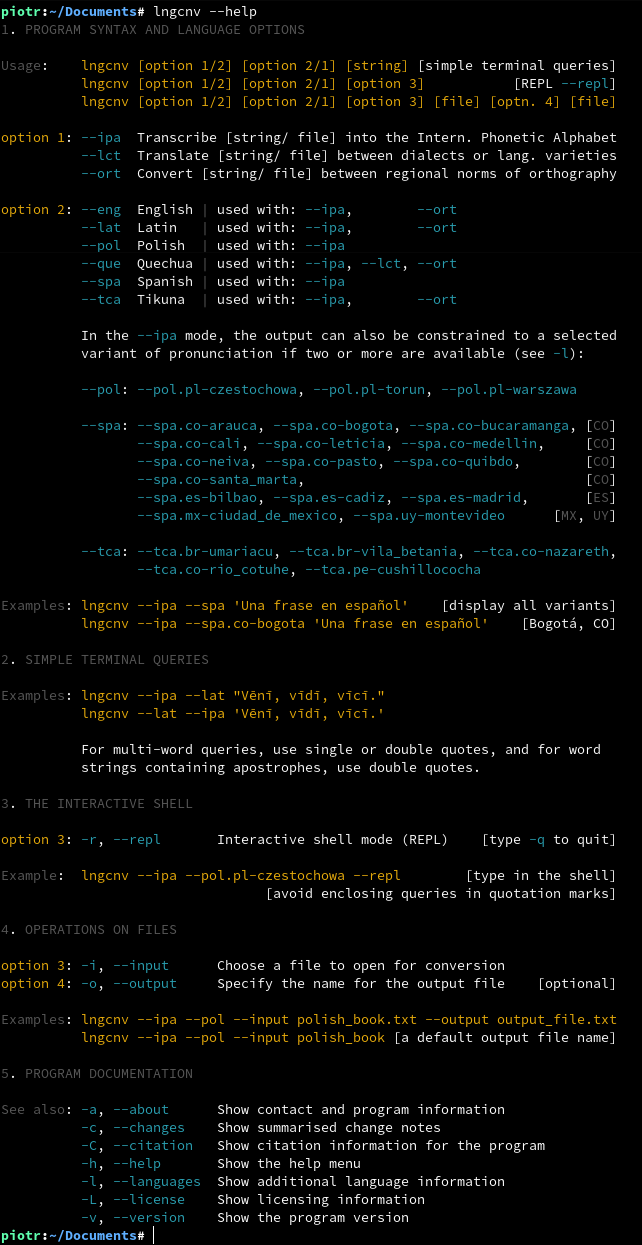
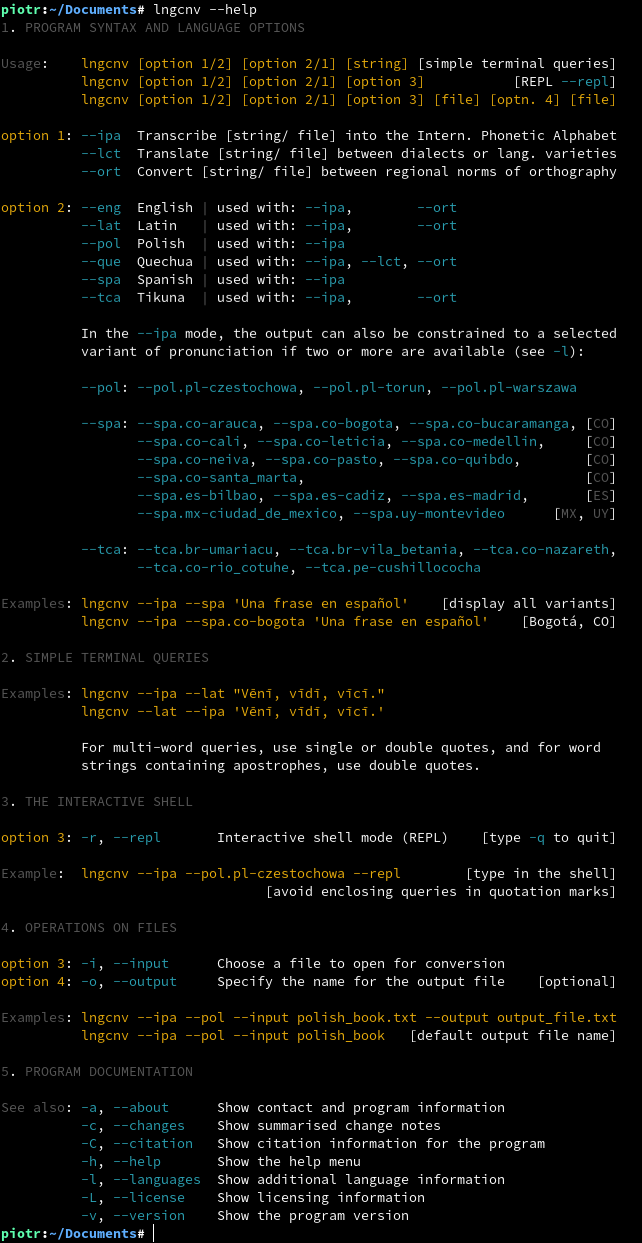
Add files via upload

diff --git a/src/menu.rs b/src/menu.rs
@@ -1,4 +1,4 @@
-// LNGCNV VERSION 1.8.5 / MIT LICENSE © 2022–2023 PIOTR BAJDEK
+// LNGCNV VERSION 1.8.6 / MIT LICENSE © 2022–2023 PIOTR BAJDEK
 
 // MODULE MENU
 
@@ -22,8 +22,8 @@ pub fn documentation(reset: &str, blue_underlined: &str, cyan: &str, yellow: &st
 
         if argument == "-a" || argument == "--about" {
             println!("{}", grey.to_owned() + "Program" + reset + ":  " + yellow + "lngcnv" + reset);
-            println!("{}", grey.to_owned() + "Version" + reset + ":  1.8.5");
-            println!("{}", grey.to_owned() + "Date" + reset + ":     February 16, 2023");
+            println!("{}", grey.to_owned() + "Version" + reset + ":  1.8.6");
+            println!("{}", grey.to_owned() + "Date" + reset + ":     March 21, 2023");
             println!("{}", grey.to_owned() + "Author" + reset + ":   Piotr Bajdek");
             println!("{}", grey.to_owned() + "Contact" + reset + ":  " + blue_underlined + "piotr.bajdek@proton.me" + reset);
             println!("{}", grey.to_owned() + "Source" + reset + ":   " + blue_underlined + "https://github.com/piotrbajdek/lngcnv" + reset);
@@ -34,7 +34,8 @@ pub fn documentation(reset: &str, blue_underlined: &str, cyan: &str, yellow: &st
         // CHANGES
 
         if argument == "-c" || argument == "--changes" {
-            println!("{}", yellow.to_owned() + "16.02.2023 v1.8.5 – Improved --ipa --eng, --ipa --pol" + reset);
+            println!("{}", yellow.to_owned() + "21.03.2023 v1.8.6 – Improved --ipa --eng, --ipa --spa" + reset);
+            println!("16.02.2023 {}", yellow.to_owned() + "v1.8.5" + reset + " – Improved --ipa --eng, --ipa --pol" + reset);
             println!("02.02.2023 {}", yellow.to_owned() + "v1.8.4" + reset + " – Enhanced layout and documentation");
             println!("18.01.2023 {}", yellow.to_owned() + "v1.8.3" + reset + " – Improved --ipa --pol, --ipa --que, --ipa --spa");
             println!("13.01.2023 {}", yellow.to_owned() + "v1.8.2" + reset + " – Improved --ipa --pol, --ipa --spa");
@@ -57,7 +58,7 @@ pub fn documentation(reset: &str, blue_underlined: &str, cyan: &str, yellow: &st
         // CITATION
 
         if argument == "-C" || argument == "--citation" {
-            println!("Bajdek, P., 2023. lngcnv (version 1.8.5). [computer software] https://github.com/piotrbajdek/lngcnv");
+            println!("Bajdek, P., 2023. lngcnv (version 1.8.6). [computer software] https://github.com/piotrbajdek/lngcnv");
             exit(0);
         }
 
@@ -74,8 +75,8 @@ pub fn documentation(reset: &str, blue_underlined: &str, cyan: &str, yellow: &st
             println!("          {}", cyan.to_owned() + "--lct" + reset + "  Translate [string/ file] between dialects or lang. varieties");
             println!("          {}", cyan.to_owned() + "--ort" + reset + "  Convert [string/ file] between regional norms of orthography");
             println!();
-            println!("{}", yellow.to_owned() + "option 2" + reset + ": " + cyan + "--eng" + reset + "  English " + grey + "|" + reset + " used with: " + cyan + "--ipa" + reset + "," + cyan + "        --ort");
-            println!("          --lat{}", reset.to_owned() + "  Latin   " + grey + "|" + reset + " used with: " + cyan + "--ipa" + reset + "," + cyan + "        --ort");
+            println!("{}", yellow.to_owned() + "option 2" + reset + ": " + cyan + "--eng" + reset + "  English " + grey + "|" + reset + " used with: " + cyan + "--ipa" + reset + ", " + cyan + "       --ort");
+            println!("          --lat{}", reset.to_owned() + "  Latin   " + grey + "|" + reset + " used with: " + cyan + "--ipa" + reset + ", " + cyan + "       --ort");
             println!("          --pol{}", reset.to_owned() + "  Polish  " + grey + "|" + reset + " used with: " + cyan + "--ipa");
             println!("          --que{}", reset.to_owned() + "  Quechua " + grey + "|" + reset + " used with: " + cyan + "--ipa" + reset + ", " + cyan + "--lct" + reset + ", " + cyan + "--ort");
             println!("          --spa{}", reset.to_owned() + "  Spanish " + grey + "|" + reset + " used with: " + cyan + "--ipa");
@@ -121,7 +122,7 @@ pub fn documentation(reset: &str, blue_underlined: &str, cyan: &str, yellow: &st
             println!("{}", yellow.to_owned() + "option 4" + reset + ": " + cyan + "-o" + reset + ", " + cyan + "--output" + reset + "     Specify the name for the output file    [optional]");
             println!();
             println!("{}", grey.to_owned() + "Examples" + reset + ":" + yellow + " lngcnv --ipa --pol --input polish_book.txt --output output_file.txt");
-            println!("          lngcnv --ipa --pol --input polish_book{}", reset.to_owned() + " [a default output file name]");
+            println!("          lngcnv --ipa --pol --input polish_book{}", reset.to_owned() + "   [default output file name]");
             println!();
             println!("{}", grey.to_owned() + "5" + reset + "." + grey + " PROGRAM DOCUMENTATION" + reset);
             println!();
@@ -177,8 +178,8 @@ pub fn documentation(reset: &str, blue_underlined: &str, cyan: &str, yellow: &st
         // VERSION
 
         if argument == "-v" || argument == "--version" {
-            println!("{}", grey.to_owned() + "Version" + reset + ": " + yellow + "1.8.5" + reset);
-            println!("February 16, 2023");
+            println!("{}", grey.to_owned() + "Version" + reset + ": " + yellow + "1.8.6" + reset);
+            println!("March 21, 2023");
             exit(0);
         }
     }

diff --git a/src/lang/modspa.rs b/src/lang/modspa.rs
@@ -1,4 +1,4 @@
-// LNGCNV VERSION 1.8.5 / MIT LICENSE © 2022–2023 PIOTR BAJDEK
+// LNGCNV VERSION 1.8.6 / MIT LICENSE © 2022–2023 PIOTR BAJDEK
 
 // MODULE MODSPA
 
@@ -164,6 +164,10 @@ fn spaaccent_a(palesp: &str) -> String {
         .replace("aldas#", "áldas#")
         .replace("abio#", "ábio#")
         .replace("abios#", "ábios#")
+        .replace("ancho#", "áncho#")
+        .replace("anchos#", "ánchos#")
+        .replace("ancha#", "áncha#")
+        .replace("anchas#", "ánchas#")
         .replace("anco#", "ánco#")
         .replace("ancos#", "áncos#")
         .replace("anca#", "ánca#")
@@ -440,10 +444,14 @@ fn spaaccent_e(spaacc_a: &str) -> String {
         .replace("emplos#", "émplos#")
         .replace("een#", "éen#")
         .replace("ees#", "ées#")
+        .replace("edia#", "édia#")
+        .replace("edias#", "édias#")
         .replace("edio#", "édio#")
         .replace("edios#", "édios#")
         .replace("emo#", "émo#")
-        .replace("emos#", "émos#");
+        .replace("emos#", "émos#")
+        .replace("esia#", "ésia#")
+        .replace("esias#", "ésias#");
     spaacc_e.to_string()
 }
 
@@ -478,6 +486,10 @@ fn spaaccent_o(spaacc_e: &str) -> String {
         .replace("ondas#", "óndas#")
         .replace("ondo#", "óndo#")
         .replace("ondos#", "óndos#")
+        .replace("onga#", "ónga#")
+        .replace("ongas#", "óngas#")
+        .replace("ongo#", "óngo#")
+        .replace("ongos#", "óngos#")
         .replace("onces#", "ónces#")
         .replace("ola#", "óla#")
         .replace("olas#", "ólas#")
@@ -2579,6 +2591,8 @@ pub fn spacomedellin(original_text: &str, usefile: &str, outputfile: &str, reset
         .replace("ch", "ʈ͡ʂʲ")
         .replace("ce", "se")
         .replace("cé", "sé")
+        .replace("#ci", "#si")
+        .replace("#cí", "#sí")
         .replace("ci", "ʒi")
         .replace("cí", "ʒí")
         .replace('c', "k")
@@ -4529,7 +4543,7 @@ pub fn spaescadiz(original_text: &str, usefile: &str, outputfile: &str, reset: &
         .replace("uho", "uʔo")
         .replace("úho", "úʔo")
         .replace('h', "h^")
-        .replace("#h^", "#h̥")
+        .replace("#h^", "#h̚")
         .replace("h^", "")
         .replace('j', "x")
         .replace("ge", "xe")

diff --git a/src/lang/modeng.rs b/src/lang/modeng.rs
@@ -1,4 +1,4 @@
-// LNGCNV VERSION 1.9.0 / MIT LICENSE © 2022–2023 PIOTR BAJDEK
+// LNGCNV VERSION 1.8.6 / MIT LICENSE © 2022–2023 PIOTR BAJDEK
 
 // MODULE MODENG
 
@@ -857,7 +857,7 @@ pub fn engaucanberra(original_text: &str, usefile: &str, outputfile: &str, reset
         .replace("#i", "#ᵊiː")
         .replace("n# #m", "m# #m")
         .replace("n# #n", "# #n")
-        .replace("iː̃m", "ĩːm")
+        .replace("iː̃", "ĩː")
         .replace('g', "ɡ")
         .replace('^', "");
 

diff --git a/src/lang/modlat.rs b/src/lang/modlat.rs
@@ -1,4 +1,4 @@
-// LNGCNV VERSION 1.8.5 / MIT LICENSE © 2022–2023 PIOTR BAJDEK
+// LNGCNV VERSION 1.8.6 / MIT LICENSE © 2022–2023 PIOTR BAJDEK
 
 // MODULE MODLAT
 

diff --git a/src/lang/modpol.rs b/src/lang/modpol.rs
@@ -1,4 +1,4 @@
-// LNGCNV VERSION 1.8.5 / MIT LICENSE © 2022–2023 PIOTR BAJDEK
+// LNGCNV VERSION 1.8.6 / MIT LICENSE © 2022–2023 PIOTR BAJDEK
 
 // MODULE MODPOL
 

diff --git a/src/lang/modque.rs b/src/lang/modque.rs
@@ -1,4 +1,4 @@
-// LNGCNV VERSION 1.8.5 / MIT LICENSE © 2022–2023 PIOTR BAJDEK
+// LNGCNV VERSION 1.8.6 / MIT LICENSE © 2022–2023 PIOTR BAJDEK
 
 // MODULE MODQUE
 

diff --git a/src/lang/modtca.rs b/src/lang/modtca.rs
@@ -1,4 +1,4 @@
-// LNGCNV VERSION 1.8.5 / MIT LICENSE © 2022–2023 PIOTR BAJDEK
+// LNGCNV VERSION 1.8.6 / MIT LICENSE © 2022–2023 PIOTR BAJDEK
 
 // MODULE MODTCA
 

diff --git a/src/lang.rs b/src/lang.rs
@@ -1,4 +1,4 @@
-// LNGCNV VERSION 1.8.5 / MIT LICENSE © 2022–2023 PIOTR BAJDEK
+// LNGCNV VERSION 1.8.6 / MIT LICENSE © 2022–2023 PIOTR BAJDEK
 
 // MODULE LANG
 

diff --git a/src/main.rs b/src/main.rs
@@ -1,4 +1,4 @@
-// LNGCNV VERSION 1.8.5 / MIT LICENSE © 2022–2023 PIOTR BAJDEK
+// LNGCNV VERSION 1.8.6 / MIT LICENSE © 2022–2023 PIOTR BAJDEK
 
 // MAIN FILE
 

diff --git a/README.md b/README.md
@@ -66,17 +66,9 @@ To display the International Phonetic Alphabet (IPA) characters accurately, it i
 
 ![help-image](https://github.com/piotrbajdek/lngcnv/blob/main/docs/images/help-image.png?raw=true)
 
-# EXAMPLES
-
-![example-image-1](https://github.com/piotrbajdek/lngcnv/blob/main/docs/images/example-image-1.png?raw=true)
-
-![example-image-2](https://github.com/piotrbajdek/lngcnv/blob/main/docs/images/example-image-2.png?raw=true)
-
-![example-image-3](https://github.com/piotrbajdek/lngcnv/blob/main/docs/images/example-image-3.png?raw=true)
-
 # INSTALLATION ON LINUX
 
-The current version of lngcnv (v1.8.5) has been verified to work properly on Fedora Linux 37 and Ubuntu 22.10.
+The current version of lngcnv (v1.8.6) has been verified to work properly on Fedora Linux 37 and Ubuntu 22.10.
 
 ## METHOD 1 – USING CARGO
 
@@ -100,7 +92,7 @@ _sudo snap install lngcnv_
 
 ## METHOD 3 – UNIVERSAL LINUX BINARIES
 
-**1.** To install lngcnv, first download the distro-independent [binary](https://github.com/piotrbajdek/lngcnv/releases/download/v1.8.5/lngcnv) from GitHub.
+**1.** To install lngcnv, first download the distro-independent [binary](https://github.com/piotrbajdek/lngcnv/releases/download/v1.8.6/lngcnv) from GitHub.
 
 **2.** Then, make the file executable by running the command:
 
@@ -122,22 +114,22 @@ _cp lngcnv $HOME/.local/bin/_
 
 **[Recommended for most users]**
 
-Distro-specific packages for [.rpm](https://github.com/piotrbajdek/lngcnv/releases/download/v1.8.5/lngcnv-1.8.5-1.x86_64.rpm) and [.deb](https://github.com/piotrbajdek/lngcnv/releases/download/v1.8.5/lngcnv_1.8.5_amd64.deb)-based Linux distributions are also available for download. To install lngcnv on different Linux distributions, follow these instructions:
+Distro-specific packages for [.rpm](https://github.com/piotrbajdek/lngcnv/releases/download/v1.8.6/lngcnv-1.8.6-1.x86_64.rpm) and [.deb](https://github.com/piotrbajdek/lngcnv/releases/download/v1.8.6/lngcnv_1.8.6_amd64.deb)-based Linux distributions are also available for download. To install lngcnv on different Linux distributions, follow these instructions:
 
 Fedora Linux / RHEL / openSUSE:
 
-_sudo rpm -i lngcnv-1.8.5-1.x86_64.rpm_
+_sudo rpm -i lngcnv-1.8.6-1.x86_64.rpm_
 
 Fedora Silverblue / Kinoite:
 
-_rpm-ostree install lngcnv-1.8.5-1.x86_64.rpm_
+_rpm-ostree install lngcnv-1.8.6-1.x86_64.rpm_
 
 Ubuntu:
 
-_sudo dpkg -i lngcnv_1.8.5_amd64.deb_
+_sudo dpkg -i lngcnv_1.8.6_amd64.deb_
 
 ## METHOD 5 – MANUAL COMPILATION
 
-First, download and unpack the lngcnv [source code](https://github.com/piotrbajdek/lngcnv/archive/refs/tags/v1.8.5.zip) from GitHub. Next, to build and install the program, use the command:
+First, download and unpack the lngcnv [source code](https://github.com/piotrbajdek/lngcnv/archive/refs/tags/v1.8.6.zip) from GitHub. Next, to build and install the program, use the command:
 
 _cargo build \--release && sudo cp target/release/lngcnv /usr/bin/_
